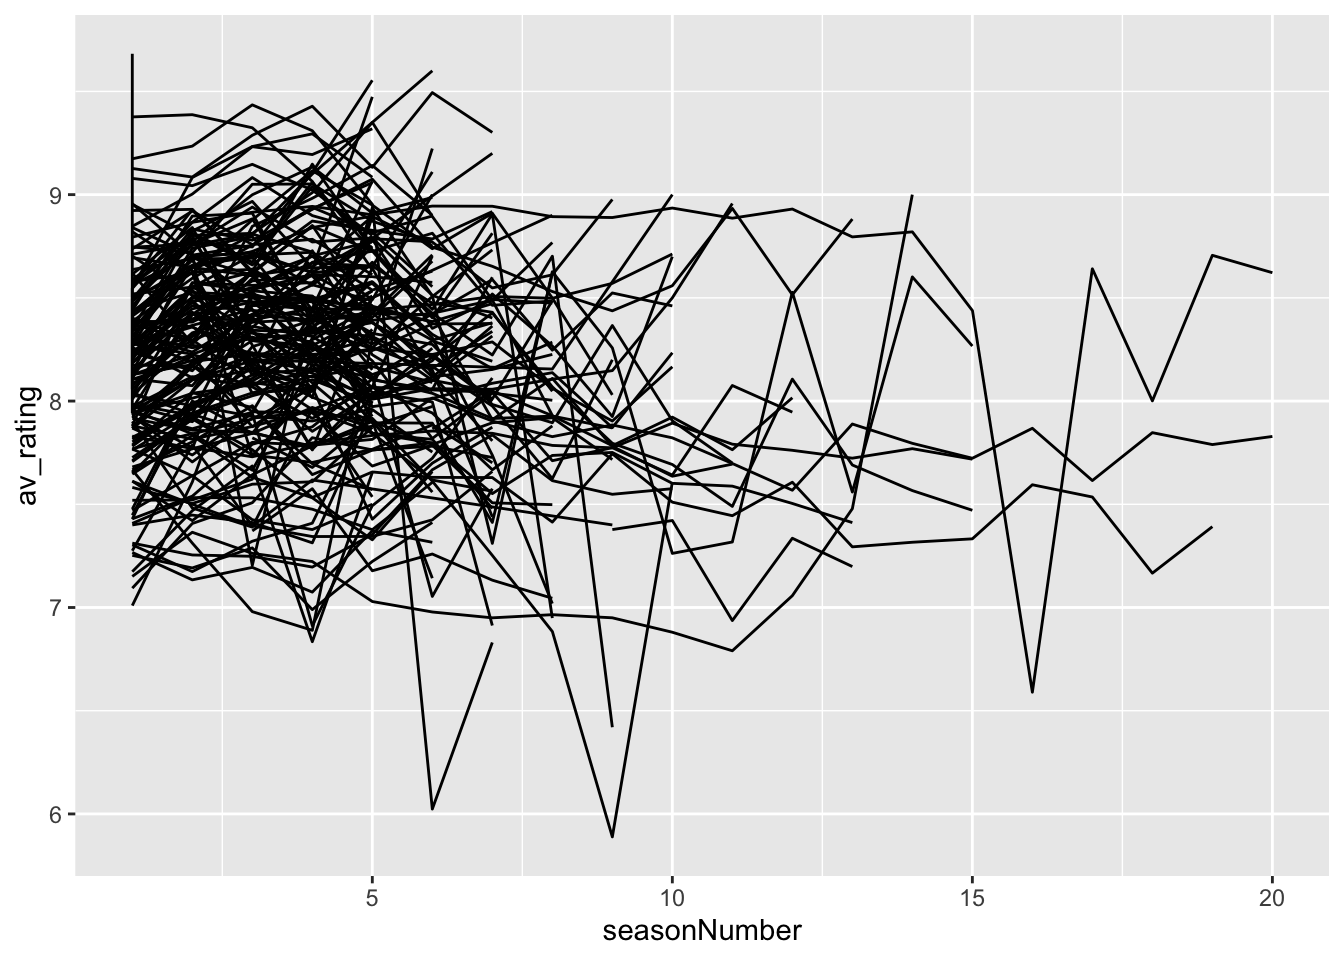
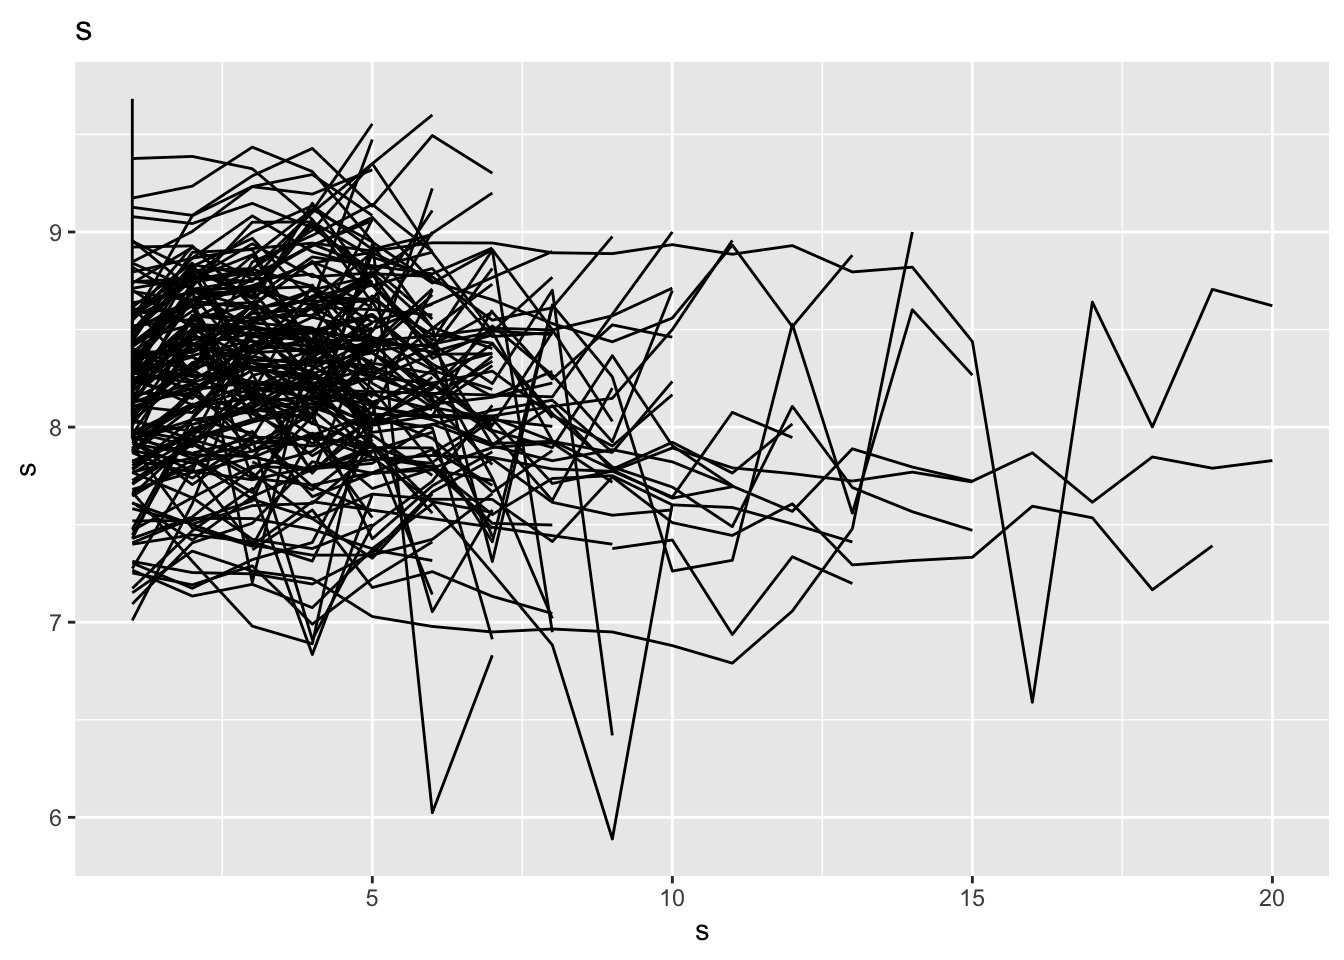
labs for 1

diff --git a/DV (4) HW.html b/DV (4) HW.html
@@ -158,7 +158,8 @@ $ genres       &lt;chr&gt; "Drama,Mystery,Sci-Fi", "Adventure,Drama,Mystery", "A
 <div class="cell">
 <div class="sourceCode cell-code" id="cb8"><pre class="sourceCode r code-with-copy"><code class="sourceCode r"><span id="cb8-1"><a href="#cb8-1" aria-hidden="true" tabindex="-1"></a>tv_long <span class="sc">|&gt;</span></span>
 <span id="cb8-2"><a href="#cb8-2" aria-hidden="true" tabindex="-1"></a>  <span class="fu">ggplot</span>(<span class="at">data =</span> tv_long, <span class="at">mapping =</span> <span class="fu">aes</span>(<span class="at">x =</span> seasonNumber, <span class="at">y =</span> av_rating, <span class="at">group =</span> title)) <span class="sc">+</span> </span>
-<span id="cb8-3"><a href="#cb8-3" aria-hidden="true" tabindex="-1"></a><span class="fu">geom_line</span>() </span></code><button title="Copy to Clipboard" class="code-copy-button"><i class="bi"></i></button></pre></div>
+<span id="cb8-3"><a href="#cb8-3" aria-hidden="true" tabindex="-1"></a><span class="fu">geom_line</span>() <span class="sc">+</span></span>
+<span id="cb8-4"><a href="#cb8-4" aria-hidden="true" tabindex="-1"></a>  <span class="fu">labs</span>( <span class="at">x =</span> <span class="st">"s"</span>, <span class="at">y =</span> <span class="st">"s"</span>, <span class="at">title =</span> <span class="st">"s"</span>)</span></code><button title="Copy to Clipboard" class="code-copy-button"><i class="bi"></i></button></pre></div>
 <div class="cell-output-display">
 <p><img src="DV--4--HW_files/figure-html/unnamed-chunk-3-1.png" class="img-fluid" width="672"></p>
 </div>
